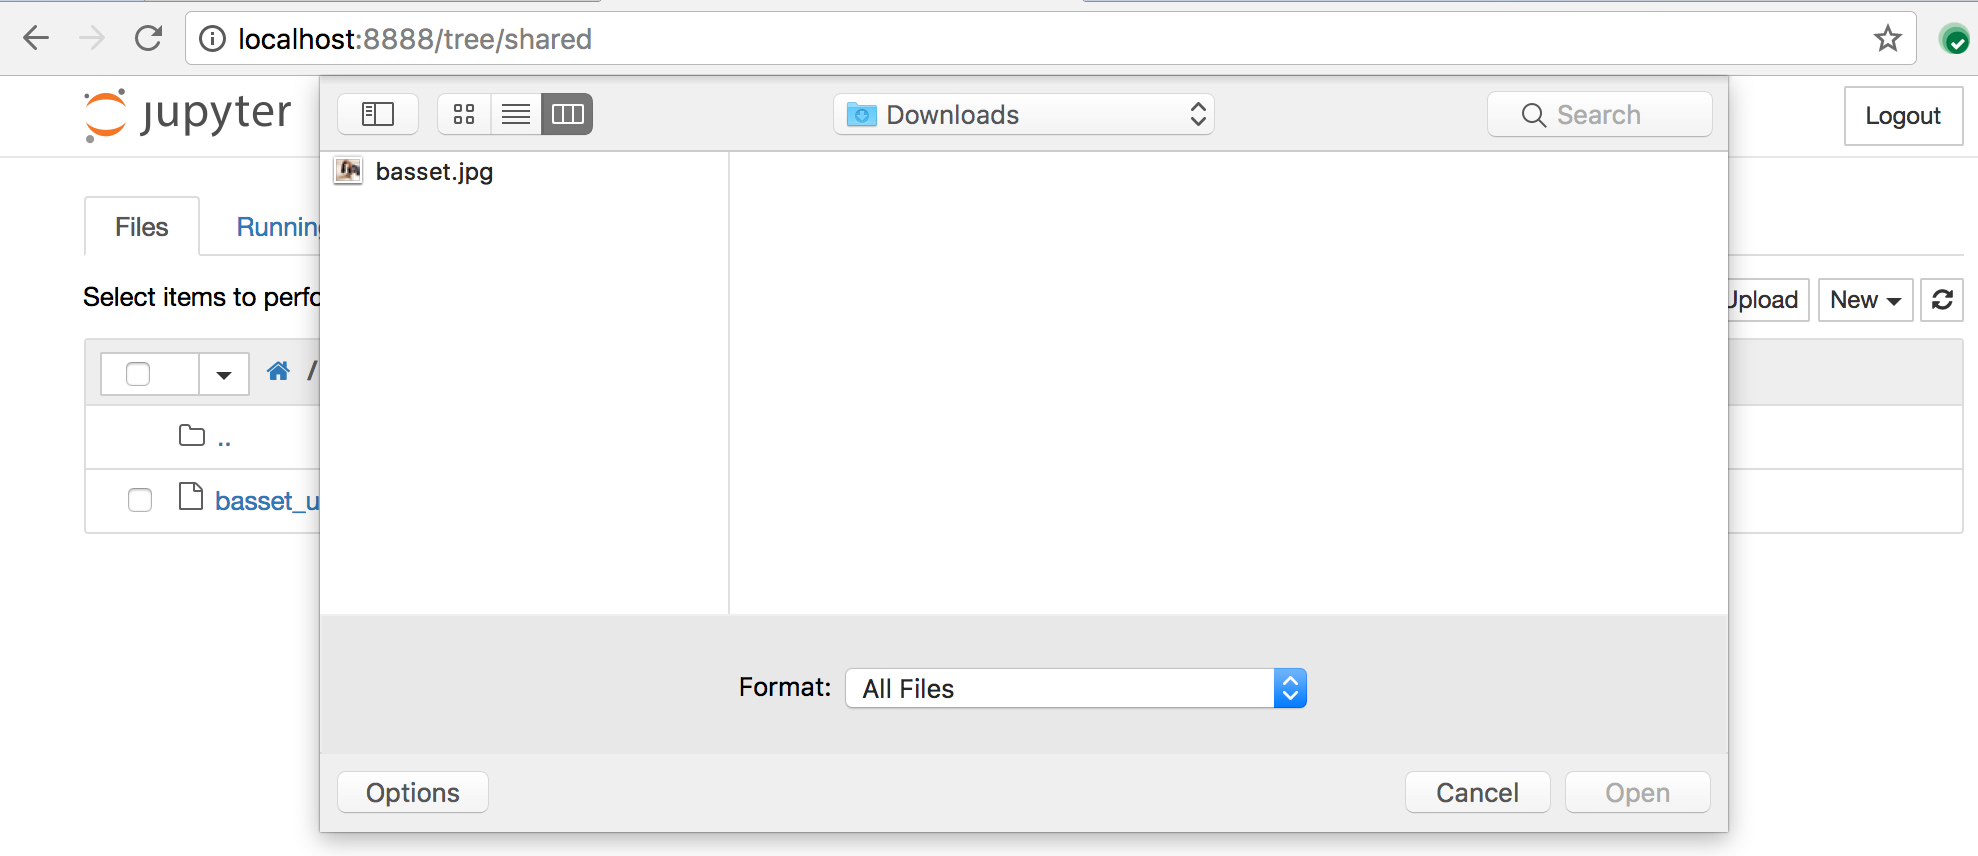
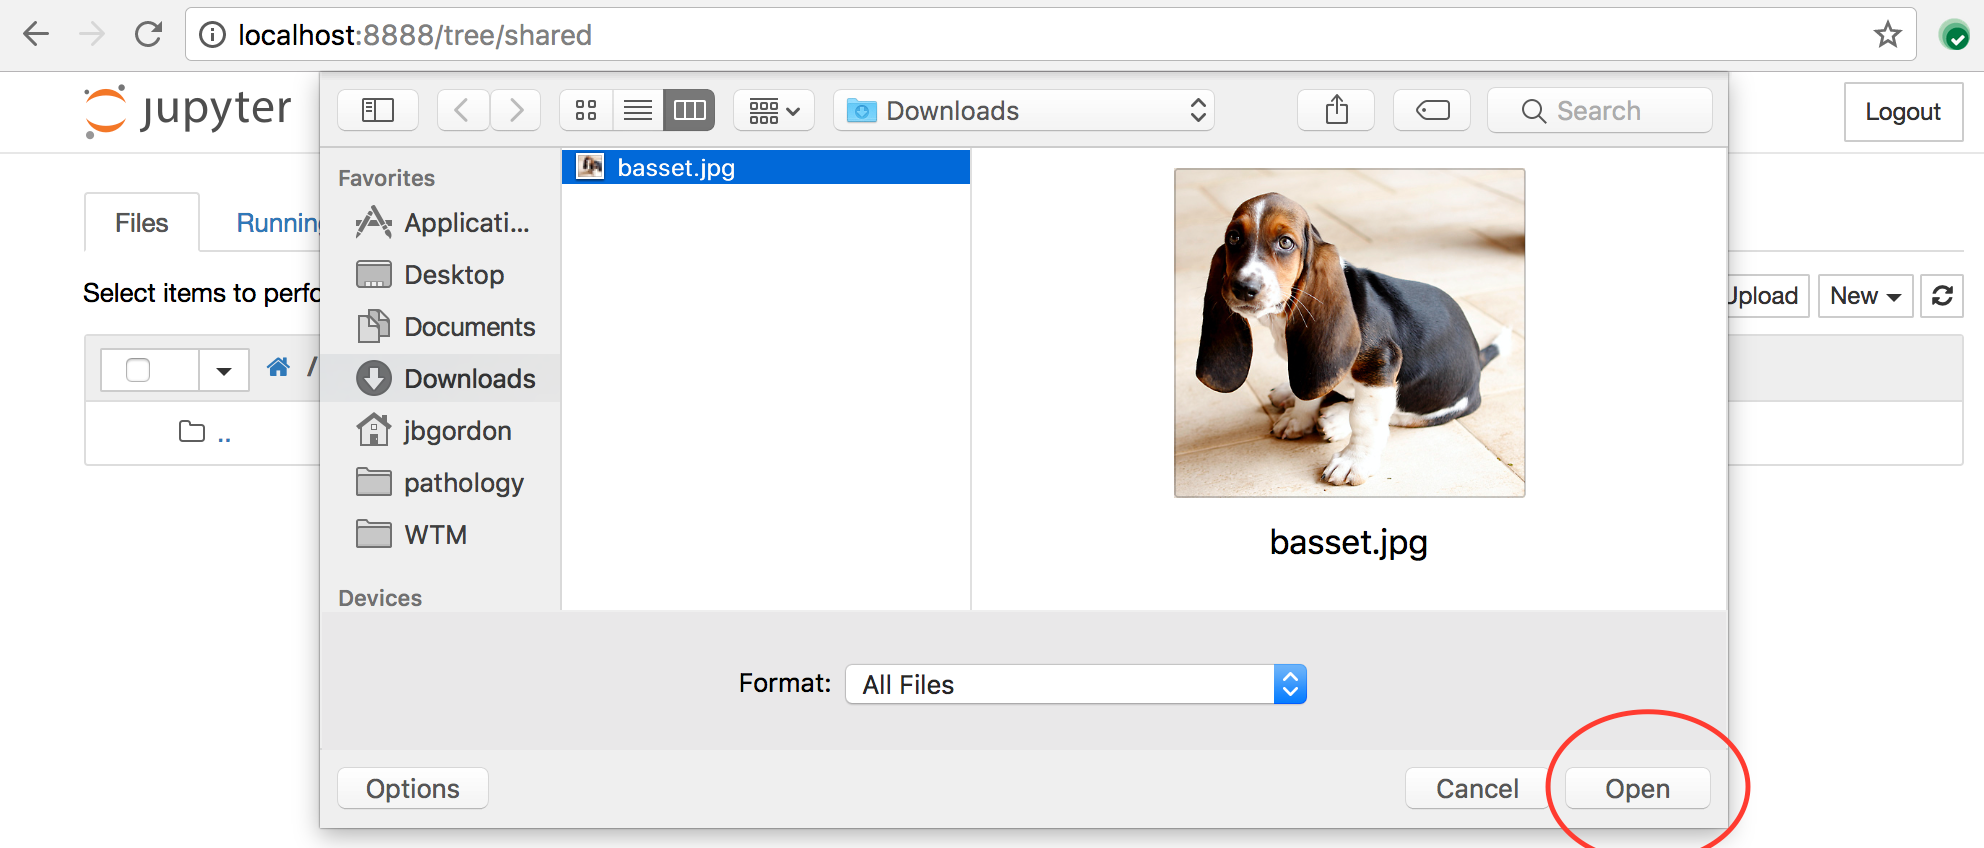
initial

diff --git a/markdown/fast-style-transfer.md b/markdown/fast-style-transfer.md
@@ -4,9 +4,14 @@
 
 Use a web browser to download your favorite small [image](https://upload.wikimedia.org/wikipedia/commons/a/af/Cara_de_quem_caiu_do_caminh%C3%A3o..._%28cropped%29.jpg) to your laptop. **Tip:** to begin, use an image of about 640x480 or smaller. You can try larger images later, depending on the speed of your machine.
 
-### Step 2. Save the image to the shared directory
+### Step 2. Share the image with the running container
+
+*If you are running locally*
 
 Save the image to the shared folder you mounted when you started the Docker container. If you used the default directory in the [instructions](install-and-use-docker.md), this will be```~/shared```.
+
+*If you are running in the Cloud*
+Upload the image through the notebook server UI as described in the [cloud instructions](cloud-install.md).
 
 ### Step 3. Understand the example script
 
@@ -42,19 +47,29 @@ This will stylize a sample image included with the container:
 In the style of this painting:
 <p align="center"><img src = 'container/sample-images/udnie.jpg' height='400px'></p>
 
-If everything is working properly, when it finishes, you should see a stylized image of a basset appear in ```~/shared``` on your laptop.
+*If you are running locally*
+If everything is working properly, when it finishes, you should see a stylized image of a basset appear in ```~/shared``` on your laptop. If you don't see the image, check that you properly mounted a shared directory by referring to the [Docker instructions](markdown/install-and-use-docker.md). 
+
+*If you are running on the Cloud*
+If you are running in the Cloud, you will see a new file inside the ```shared``` directory in the notebook server UI (you will have to refresh your browser to see it).
 
 <p align="center"><img src = 'images/basset_udnie.jpg' height='400px'></p>
 
-If you don't see the image, check that you properly mounted a shared directory by referring to the [Docker instructions](markdown/install-and-use-docker.md)
-
 ### Step 4. Modify the script to work with your input image
-Now it's time to stylize your own image. For example, imagine your image is saved as ```cat.jpg``` inside the shared directory ```~/shared```  on your laptop. Then you would run these commands on the terminal connected to the Docker container to produce an image called ```cat_styled.jpg``` inside that same folder.
+Now it's time to stylize your own image. 
+
+*If you are running locally*
+For example, imagine your image is saved as ```cat.jpg``` inside the shared directory ```~/shared```  on your laptop. Then you would run these commands on the terminal connected to the Docker container to produce an image called ```cat_styled.jpg``` inside that same folder.
 
 ```
 # cd /workshop/fast-style-transfer
 # python evaluate.py --checkpoint /workshop/fast-style-transfer/models/udnie.ckpt --in-path /workshop/shared/cat.jpg --out-path /workshop/shared/cat_styled.jpg
 ```
+
+*If you are running on the Cloud*
+First, upload your image to the ```shared``` folder using the notebook server's UI, then run the above command.
+
+
 ### Step 5. Try a different style
 
 Want to change the style? The author of the github repo we're using has helpfully provided several pre-trained models for different styles that you can choose from. These are already included in the Docker image.

diff --git a/markdown/magenta-style-transfer.md b/markdown/magenta-style-transfer.md
@@ -5,7 +5,13 @@ These instructions assume you're familiar using the workshop Docker image as des
 In this exercise, you'll experiment with blending different styles and images, and (optionally) upload your favorites to a shared directory so other participants can take a look. Note: the instructor should have a link to a shared folder on the slides.
 
 ## Step 1. Find an image to stylize
+
+*If you are running locally*
+
 As before, download an image and save it to the shared directory on your laptop. There are also sample images you can use inside the container at ```/workshop/sample-images```. We recommend beginning with relatively small images, of around 640x480.
+
+*If you are running on the Cloud*
+As before, upload an image using the Notebook Server UI.
 
 ## Step 2. Understand the example script
 
@@ -23,9 +29,16 @@ image_stylization_transform \
       --output_basename="basset"
 ```
 
-To get started, the only argument you'll have to change is ```--input_image``` to point to your image in the shared directory. Recall, the shared directory is mounted as ```/workshop/shared```, so if your image is called ```cat.jpg```, then you'll want to change ```--input_image``` to ```/workshop/shared/cat.jpg```).
+To get started, the only argument you'll have to change is ```--input_image``` to point to your image in the shared directory. 
 
-First, try running this script with the default arguments, and verify you see a stylized image appear in ```~/shared``` when it completes. Next, change the ```input-image``` to point to yours, and verify you can stylize it.
+*If you are running locally*
+
+Recall, the shared directory is mounted as ```/workshop/shared```, so if your image is called ```cat.jpg```, then you'll want to change ```--input_image``` to ```/workshop/shared/cat.jpg```).
+
+*If you are running on the Cloud*
+Upload an image to the shared directory using the Notebook Server UI. This is mounted inside the container as ```/workshop/shared```.
+
+First, try running this script with the default arguments, and verify you see a stylized image appear in ```~/shared``` when it completes. *If you are running on the Cloud* you will have to refresh your web browser after the script completes. Next, change the ```input-image``` to point to your image, and verify you can stylize it.
 
 ## Try different styles
 Now it's time to use different styles. You can see images of all the available styles in the pre-trained varied mode [here](https://goo.gl/1UDjBE). Here are a couple:
